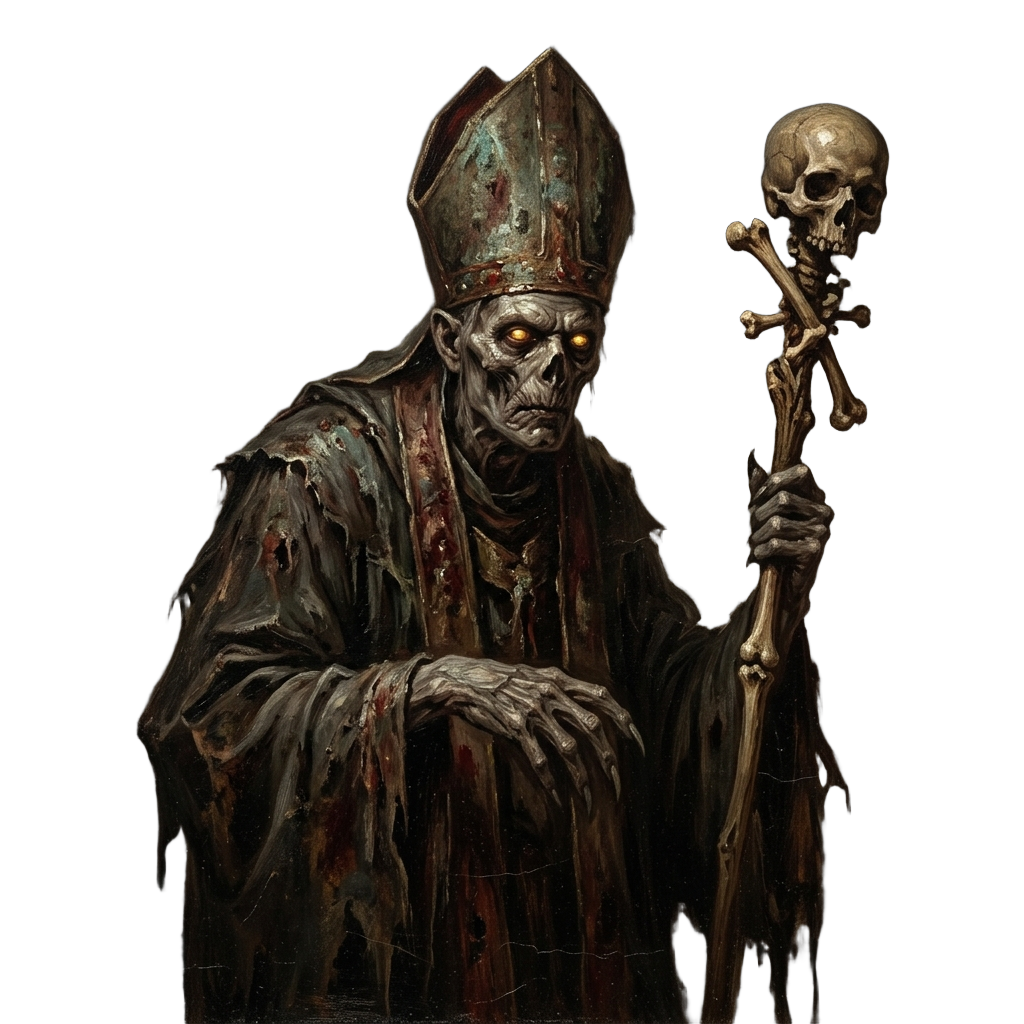
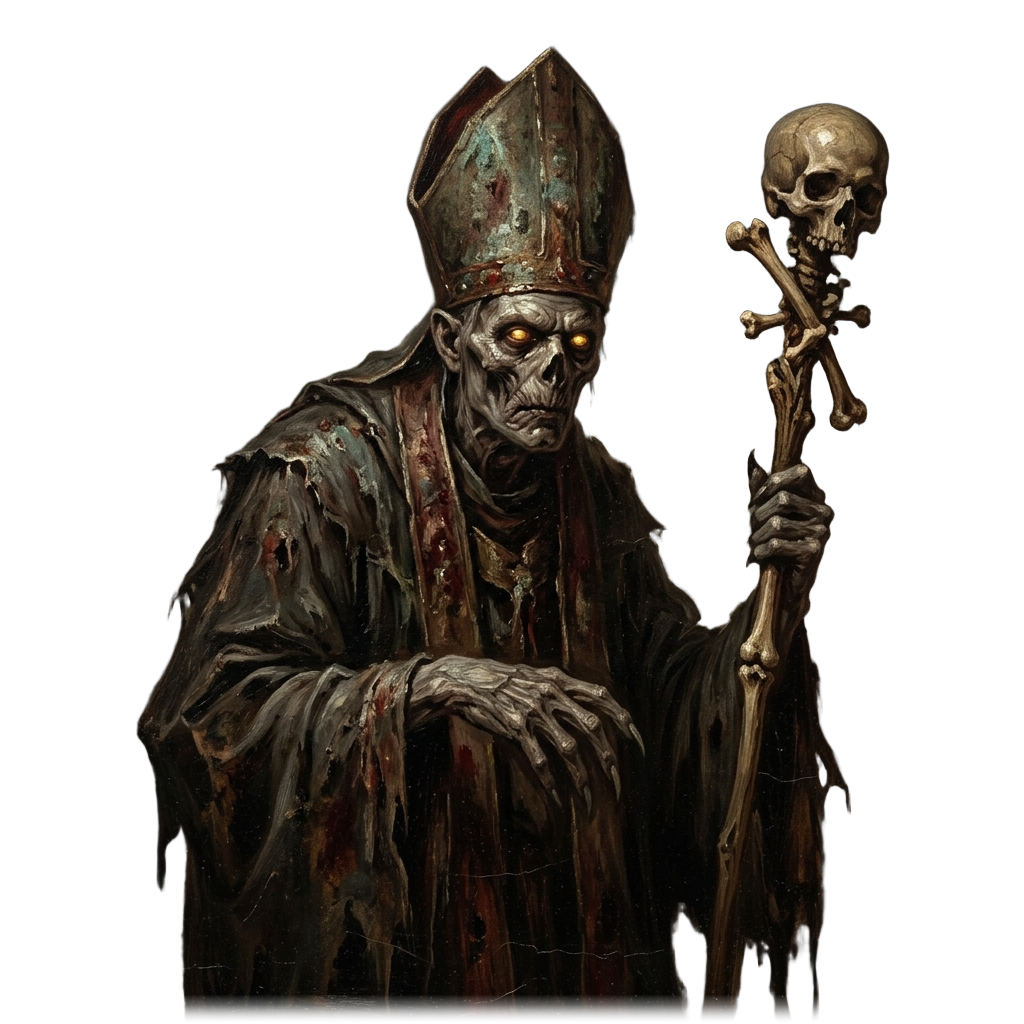
style: enlarge enemy portrait, eliminate square box-shadow glow, and extend flicker duration to 850ms

Changed region(s): [[0.1562, 0.9688, 0.7188, 1.0], [0.75, 0.9688, 0.8125, 1.0]]

diff --git a/src/styles/combat.css b/src/styles/combat.css
@@ -117,13 +117,14 @@
   align-items: center;
   justify-content: center;
   position: relative;
-  background: radial-gradient(circle at center, rgba(20, 14, 18, 0.12) 0%, rgba(10, 14, 20, 0.22) 80%);
+  background: radial-gradient(ellipse 70% 60% at 50% 50%, rgba(20, 14, 18, 0.25) 0%, rgba(10, 14, 20, 0.35) 100%);
   border: 1px solid rgba(207, 168, 102, 0.32);
   border-radius: var(--radius-md);
-  padding: clamp(4px, 0.8dvh, 12px) clamp(8px, 1.2vw, 16px);
+  padding: clamp(6px, 1dvh, 12px) clamp(10px, 1.5vw, 20px);
   box-shadow: 0 8px 32px rgba(0, 0, 0, 0.3), inset 0 0 15px rgba(0, 0, 0, 0.15);
   overflow: hidden;
   backdrop-filter: blur(3px);
+  gap: clamp(1px, 0.3dvh, 4px);
 }
 
 .enemy-intent-bubble {
@@ -132,11 +133,13 @@
   gap: clamp(4px, 0.8vw, 8px);
   background: rgba(26, 12, 16, 0.92);
   border: 1px solid var(--color-health-bright);
-  box-shadow: 0 0 15px rgba(230, 57, 70, 0.35);
-  padding: clamp(2px, 0.5dvh, 6px) clamp(8px, 1vw, 14px);
+  box-shadow: 0 0 12px rgba(230, 57, 70, 0.25);
+  padding: clamp(2px, 0.4dvh, 5px) clamp(8px, 1vw, 14px);
   border-radius: 20px;
-  margin-bottom: clamp(2px, 0.5dvh, 8px);
+  margin-bottom: clamp(1px, 0.2dvh, 4px);
   animation: intentPulse 2.5s infinite ease-in-out;
+  flex-shrink: 0;
+  z-index: 5;
 }
 
 @keyframes intentPulse {
@@ -188,12 +191,14 @@
 .enemy-portrait-stage {
   position: relative;
   width: 100%;
-  max-width: clamp(180px, 30vw, 360px);
-  height: clamp(90px, 16dvh, 220px);
+  max-width: clamp(260px, 36vw, 480px);
+  flex: 1;
+  min-height: clamp(140px, 22dvh, 250px);
+  max-height: clamp(180px, 28dvh, 320px);
   display: flex;
   align-items: center;
   justify-content: center;
-  margin-bottom: clamp(2px, 0.4dvh, 6px);
+  margin-bottom: clamp(1px, 0.2dvh, 4px);
   overflow: visible;
 }
 
@@ -210,13 +215,27 @@
 .enemy-portrait-img {
   max-width: 100%;
   max-height: 100%;
+  width: auto;
+  height: 100%;
   object-fit: contain;
-  object-position: center bottom;
-  filter: drop-shadow(0 0 16px rgba(0, 0, 0, 0.85));
+  object-position: center center;
+  box-shadow: none !important; /* CRITICAL: Never apply box-shadow to transparent image tags */
+  filter: drop-shadow(0 0 18px rgba(0, 0, 0, 0.9));
   transition: transform 0.3s ease, filter 0.3s ease;
   user-select: none;
   pointer-events: none;
-  animation: breatheEnemy 4s ease-in-out infinite;
+  animation: breatheEnemyPortrait 4s ease-in-out infinite;
+}
+
+@keyframes breatheEnemyPortrait {
+  0%, 100% {
+    transform: scale(1);
+    filter: drop-shadow(0 0 16px rgba(0, 0, 0, 0.9));
+  }
+  50% {
+    transform: scale(1.03);
+    filter: drop-shadow(0 0 24px rgba(0, 0, 0, 0.98)) drop-shadow(0 0 8px rgba(207, 168, 102, 0.15));
+  }
 }
 
 /* Category-specific Ambient Glowing Aura */
@@ -225,35 +244,36 @@
   top: 50%;
   left: 50%;
   transform: translate(-50%, -50%);
-  width: clamp(120px, 20vw, 240px);
-  height: clamp(70px, 12dvh, 160px);
+  width: clamp(160px, 25vw, 320px);
+  height: clamp(100px, 16dvh, 220px);
   border-radius: 50%;
+  box-shadow: none !important;
   pointer-events: none;
   z-index: 1;
-  filter: blur(28px);
-  opacity: 0.45;
+  filter: blur(40px);
+  opacity: 0.38;
   transition: opacity 0.5s ease, background 0.5s ease;
   animation: auraPulse 4s ease-in-out infinite alternate;
 }
 
 @keyframes auraPulse {
-  0% { transform: translate(-50%, -50%) scale(0.92); opacity: 0.35; }
-  100% { transform: translate(-50%, -50%) scale(1.08); opacity: 0.6; }
+  0% { transform: translate(-50%, -50%) scale(0.92); opacity: 0.28; }
+  100% { transform: translate(-50%, -50%) scale(1.08); opacity: 0.48; }
 }
 
-.enemy-ambient-glow.glow-cultist { background: radial-gradient(circle, #f57c00 0%, #b71c1c 60%, transparent 80%); }
-.enemy-ambient-glow.glow-ghoul { background: radial-gradient(circle, #558b2f 0%, #2e7d32 60%, transparent 80%); }
-.enemy-ambient-glow.glow-nightgaunt { background: radial-gradient(circle, #5e35b1 0%, #311b92 60%, transparent 80%); }
-.enemy-ambient-glow.glow-deep_one { background: radial-gradient(circle, #00838f 0%, #006064 60%, transparent 80%); }
-.enemy-ambient-glow.glow-drowned { background: radial-gradient(circle, #0277bd 0%, #01579b 60%, transparent 80%); }
-.enemy-ambient-glow.glow-shoggoth { background: radial-gradient(circle, #8e24aa 0%, #4a148c 60%, transparent 80%); }
-.enemy-ambient-glow.glow-byakhee { background: radial-gradient(circle, #e65100 0%, #bf360c 60%, transparent 80%); }
-.enemy-ambient-glow.glow-formless { background: radial-gradient(circle, #37474f 0%, #212121 60%, transparent 80%); }
-.enemy-ambient-glow.glow-hound { background: radial-gradient(circle, #00b0ff 0%, #0091ea 60%, transparent 80%); }
-.enemy-ambient-glow.glow-star_spawn { background: radial-gradient(circle, #7c4dff 0%, #651fff 60%, transparent 80%); }
-.enemy-ambient-glow.glow-ancient_guardian { background: radial-gradient(circle, #ffb300 0%, #ff8f00 60%, transparent 80%); }
-.enemy-ambient-glow.glow-boss { background: radial-gradient(circle, #d50000 0%, #aa00ff 60%, transparent 80%); }
-.enemy-ambient-glow.glow-default { background: radial-gradient(circle, #b71c1c 0%, #421419 60%, transparent 80%); }
+.enemy-ambient-glow.glow-cultist { background: radial-gradient(circle, rgba(245, 124, 0, 0.8) 0%, rgba(183, 28, 28, 0.4) 45%, transparent 70%); }
+.enemy-ambient-glow.glow-ghoul { background: radial-gradient(circle, rgba(85, 139, 47, 0.75) 0%, rgba(46, 125, 50, 0.35) 45%, transparent 70%); }
+.enemy-ambient-glow.glow-nightgaunt { background: radial-gradient(circle, rgba(94, 53, 177, 0.75) 0%, rgba(49, 27, 146, 0.35) 45%, transparent 70%); }
+.enemy-ambient-glow.glow-deep_one { background: radial-gradient(circle, rgba(0, 131, 143, 0.75) 0%, rgba(0, 96, 100, 0.35) 45%, transparent 70%); }
+.enemy-ambient-glow.glow-drowned { background: radial-gradient(circle, rgba(2, 119, 189, 0.75) 0%, rgba(1, 87, 155, 0.35) 45%, transparent 70%); }
+.enemy-ambient-glow.glow-shoggoth { background: radial-gradient(circle, rgba(142, 36, 170, 0.75) 0%, rgba(74, 20, 140, 0.35) 45%, transparent 70%); }
+.enemy-ambient-glow.glow-byakhee { background: radial-gradient(circle, rgba(230, 81, 0, 0.75) 0%, rgba(191, 54, 12, 0.35) 45%, transparent 70%); }
+.enemy-ambient-glow.glow-formless { background: radial-gradient(circle, rgba(69, 90, 100, 0.75) 0%, rgba(33, 33, 33, 0.35) 45%, transparent 70%); }
+.enemy-ambient-glow.glow-hound { background: radial-gradient(circle, rgba(0, 176, 255, 0.75) 0%, rgba(0, 145, 234, 0.35) 45%, transparent 70%); }
+.enemy-ambient-glow.glow-star_spawn { background: radial-gradient(circle, rgba(124, 77, 255, 0.75) 0%, rgba(101, 31, 255, 0.35) 45%, transparent 70%); }
+.enemy-ambient-glow.glow-ancient_guardian { background: radial-gradient(circle, rgba(255, 179, 0, 0.75) 0%, rgba(255, 143, 0, 0.35) 45%, transparent 70%); }
+.enemy-ambient-glow.glow-boss { background: radial-gradient(circle, rgba(213, 0, 0, 0.8) 0%, rgba(170, 0, 255, 0.4) 45%, transparent 70%); }
+.enemy-ambient-glow.glow-default { background: radial-gradient(circle, rgba(183, 28, 28, 0.75) 0%, rgba(66, 20, 25, 0.35) 45%, transparent 70%); }
 
 /* Sanity Flicker & Madness Transition Animations (ADR-0021) */
 @keyframes perceptionFlicker {
@@ -261,19 +281,24 @@
     transform: scale(1) translate(0, 0);
     filter: drop-shadow(0 0 16px rgba(0, 0, 0, 0.85));
   }
-  20% {
-    transform: scale(1.04) translate(-3px, 1px);
-    filter: drop-shadow(0 0 25px rgba(255, 23, 68, 0.85)) hue-rotate(180deg) invert(0.2);
+  6% {
+    transform: scale(1.08) translate(-4px, 2px);
+    filter: drop-shadow(0 0 32px rgba(255, 0, 0, 0.95)) contrast(1.4) hue-rotate(180deg) invert(0.15);
   }
-  40% {
-    transform: scale(0.97) translate(2px, -2px);
-    filter: drop-shadow(0 0 22px rgba(213, 0, 249, 0.85)) contrast(1.4);
+  12% {
+    transform: scale(1.06) translate(2px, -1px);
+    filter: drop-shadow(0 0 28px rgba(220, 20, 60, 0.95)) drop-shadow(0 0 55px rgba(180, 0, 0, 0.65)) contrast(1.2) brightness(1.15);
   }
-  60% {
-    transform: scale(1.03) translate(-2px, 2px);
-    filter: drop-shadow(0 0 28px rgba(255, 0, 0, 0.9)) brightness(1.25);
+  /* Sustain horror reveal clearly for ~550ms so player can fully register the terrifying creature */
+  70% {
+    transform: scale(1.06) translate(0, 0);
+    filter: drop-shadow(0 0 28px rgba(220, 20, 60, 0.95)) drop-shadow(0 0 55px rgba(180, 0, 0, 0.65)) contrast(1.2) brightness(1.15);
   }
   80% {
+    transform: scale(1.03) translate(-2px, 2px);
+    filter: drop-shadow(0 0 24px rgba(213, 0, 249, 0.85)) contrast(1.3);
+  }
+  90% {
     transform: scale(1.01) translate(1px, -1px);
     filter: drop-shadow(0 0 18px rgba(255, 60, 60, 0.65));
   }
@@ -284,28 +309,29 @@
 }
 
 .perception-flickering {
-  animation: perceptionFlicker 0.28s ease-in-out forwards !important;
+  animation: perceptionFlicker 0.85s ease-in-out forwards !important;
 }
 
 .enemy-portrait-stage.is-flickering .enemy-ambient-glow {
-  filter: blur(35px);
-  opacity: 0.85;
-  background: radial-gradient(circle, #ff1744 0%, #d500f9 50%, transparent 80%) !important;
+  filter: blur(48px);
+  opacity: 0.75;
+  background: radial-gradient(circle, rgba(255, 23, 68, 0.7) 0%, rgba(213, 0, 249, 0.35) 45%, transparent 70%) !important;
 }
 
 .enemy-portrait-img.state-madness {
-  filter: drop-shadow(0 0 22px rgba(213, 0, 0, 0.85)) contrast(1.1);
+  box-shadow: none !important;
+  filter: drop-shadow(0 0 25px rgba(213, 0, 0, 0.85)) drop-shadow(0 0 50px rgba(136, 0, 0, 0.45)) contrast(1.1);
   animation: breatheEnemyMadness 3s ease-in-out infinite;
 }
 
 @keyframes breatheEnemyMadness {
   0%, 100% {
     transform: scale(1);
-    filter: drop-shadow(0 0 20px rgba(183, 28, 28, 0.7));
+    filter: drop-shadow(0 0 22px rgba(183, 28, 28, 0.75)) drop-shadow(0 0 45px rgba(136, 0, 0, 0.4));
   }
   50% {
-    transform: scale(1.05);
-    filter: drop-shadow(0 0 32px rgba(255, 23, 68, 0.95)) hue-rotate(-15deg);
+    transform: scale(1.04);
+    filter: drop-shadow(0 0 35px rgba(255, 23, 68, 0.95)) drop-shadow(0 0 65px rgba(183, 28, 28, 0.6)) hue-rotate(-10deg);
   }
 }
 
@@ -461,22 +487,26 @@
 
 .enemy-name {
   font-family: var(--font-title);
-  font-size: clamp(0.9rem, 1.6dvh, 1.15rem);
+  font-size: clamp(0.95rem, 1.4dvh, 1.15rem);
   letter-spacing: 1px;
   color: var(--text-parchment);
-  margin-bottom: 2px;
+  margin-bottom: clamp(1px, 0.2dvh, 2px);
+  flex-shrink: 0;
+  text-shadow: 0 0 10px rgba(0, 0, 0, 0.8);
 }
 
 .enemy-title {
-  font-size: 0.75rem;
+  font-size: clamp(0.7rem, 1dvh, 0.8rem);
   color: var(--text-dim);
   font-style: italic;
-  margin-bottom: 8px;
+  margin-bottom: clamp(2px, 0.4dvh, 6px);
+  flex-shrink: 0;
 }
 
 .enemy-health-container {
   width: 85%;
   max-width: 320px;
+  flex-shrink: 0;
 }
 
 .enemy-health-meta {

diff --git a/src/hooks/useSanityFlicker.test.ts b/src/hooks/useSanityFlicker.test.ts
@@ -37,6 +37,37 @@ describe('useSanityFlicker Hook (ADR-0021)', () => {
     vi.useRealTimers();
   });
 
+  it('triggers isFlickering with default 850ms duration for jump scare readability', () => {
+    vi.useFakeTimers();
+
+    const { result, rerender } = renderHook(
+      ({ count }) => useSanityFlicker(count),
+      { initialProps: { count: 10 } }
+    );
+
+    expect(result.current.isFlickering).toBe(false);
+
+    act(() => {
+      rerender({ count: 9 });
+    });
+
+    expect(result.current.isFlickering).toBe(true);
+
+    // Fast-forward 500ms (still flickering so player can clearly see the horror)
+    act(() => {
+      vi.advanceTimersByTime(500);
+    });
+    expect(result.current.isFlickering).toBe(true);
+
+    // Fast-forward remaining 350ms (total 850ms)
+    act(() => {
+      vi.advanceTimersByTime(350);
+    });
+    expect(result.current.isFlickering).toBe(false);
+
+    vi.useRealTimers();
+  });
+
   it('does NOT trigger flicker when sanityCount increases (e.g. restoring sanity)', () => {
     const { result, rerender } = renderHook(
       ({ count }) => useSanityFlicker(count, 280),

diff --git a/src/hooks/useSanityFlicker.ts b/src/hooks/useSanityFlicker.ts
@@ -7,12 +7,12 @@ export interface SanityFlickerResult {
 
 /**
  * 自訂 Hook：監聽理智牌庫張數（Sanity Deck Count）扣減或侵蝕，
- * 自動觸發短暫的認知濾鏡驚悚閃爍狀態（Sanity Flicker），約 280ms (ADR-0021)。
+ * 自動觸發短暫的認知濾鏡驚悚閃爍狀態（Sanity Flicker），約 850ms (ADR-0021)。
  *
  * @param sanityCount 當前理智牌庫張數
- * @param duration 閃爍持續毫秒數（預設 280ms）
+ * @param duration 閃爍持續毫秒數（預設 850ms）
  */
-export function useSanityFlicker(sanityCount: number, duration = 280): SanityFlickerResult {
+export function useSanityFlicker(sanityCount: number, duration = 850): SanityFlickerResult {
   const [isFlickering, setIsFlickering] = useState<boolean>(false);
   const [flickerKey, setFlickerKey] = useState<number>(0);
   const prevCountRef = useRef<number>(sanityCount);
